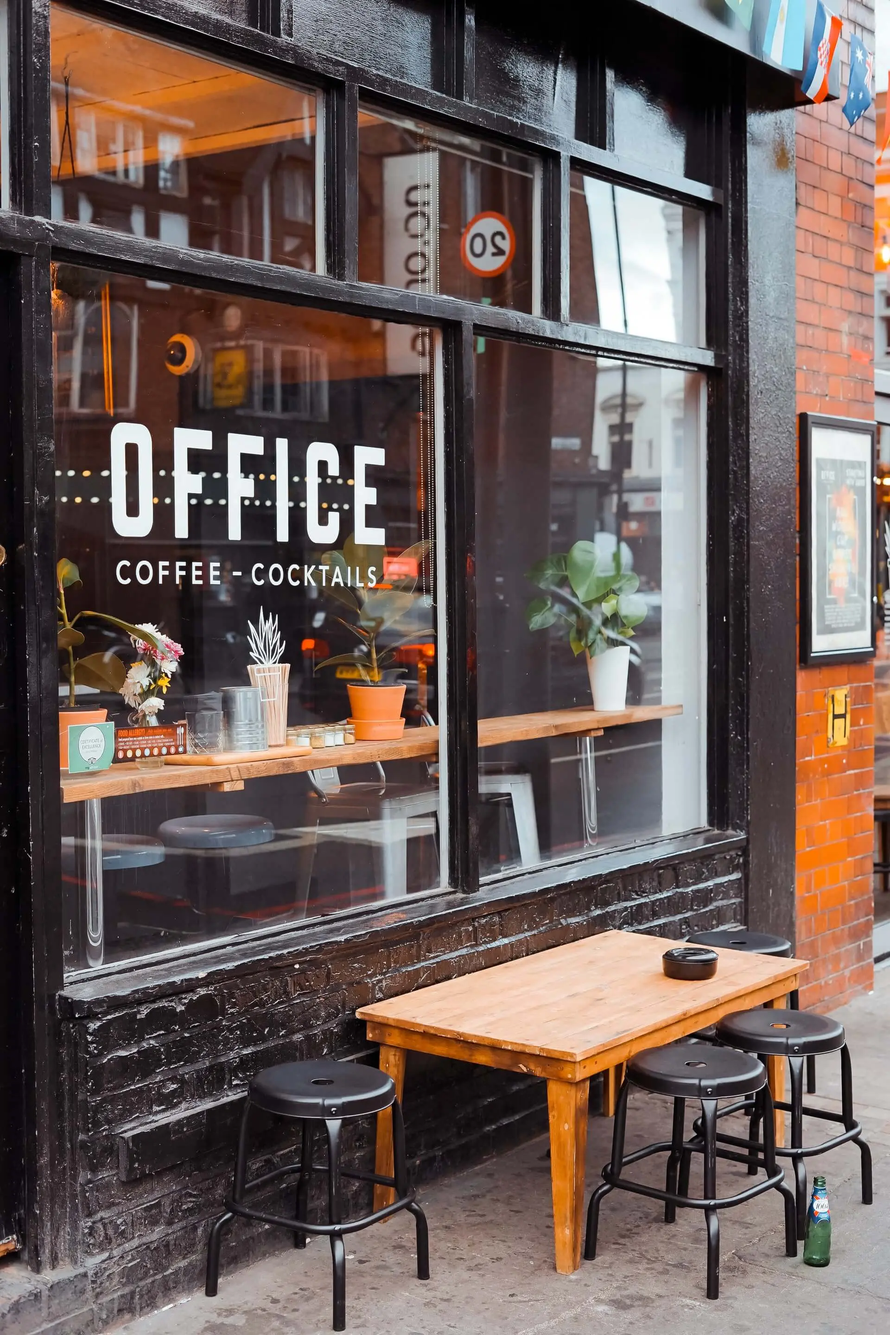
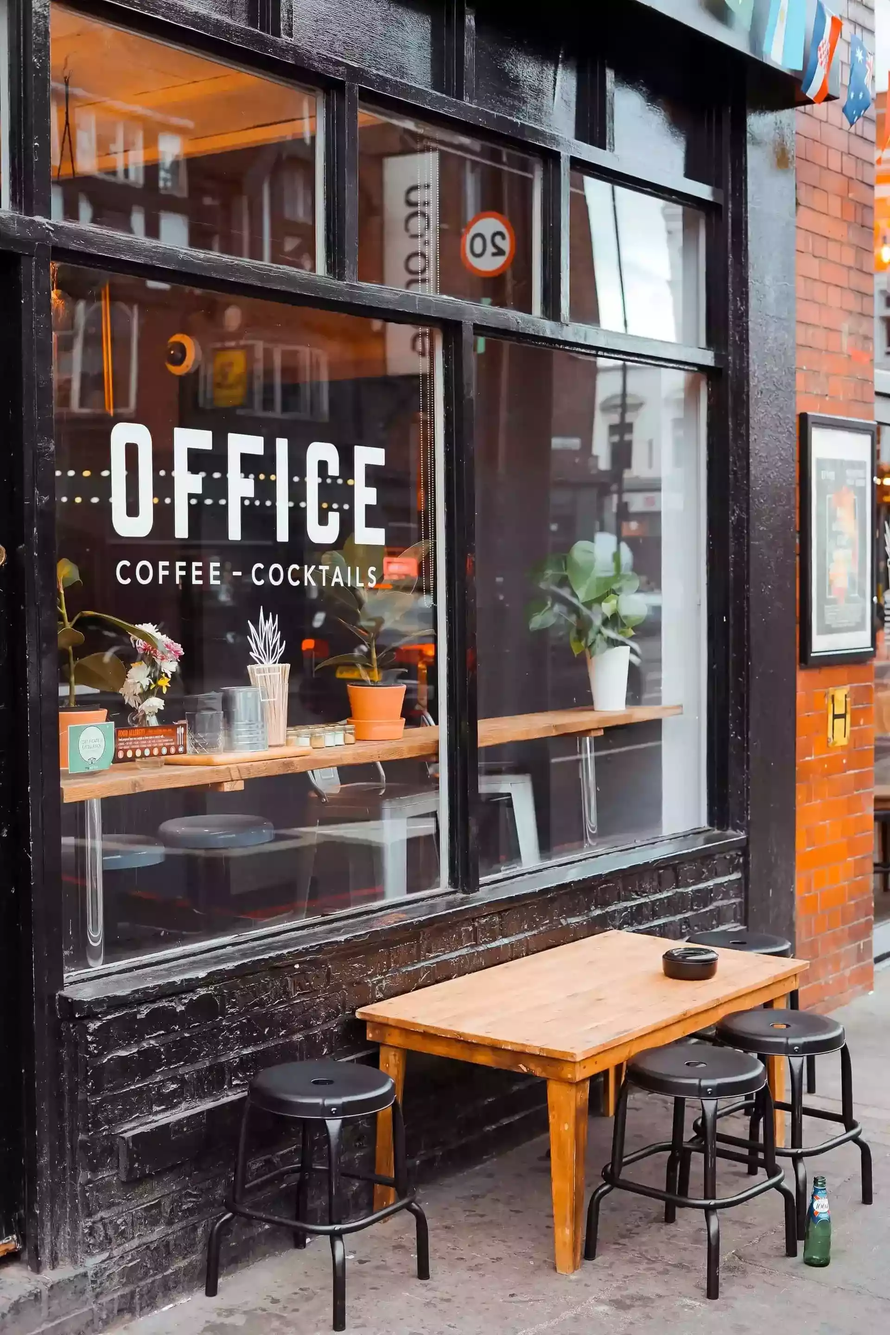
changed files for location images as size was too large, also adjusted h1 media query size

Changed region(s): [[0.3438, 0.0, 0.4375, 0.0312], [0.1562, 0.5312, 0.1875, 0.5625]]

diff --git a/assets/css/styles.css b/assets/css/styles.css
@@ -493,7 +493,7 @@ hr {
 }
 @media only screen and (max-width: 420px) {
     h1 {
-        font-size: 6rem;
+        font-size: 7.5rem;
     }
 }
 @media only screen and (max-width:405px) {
